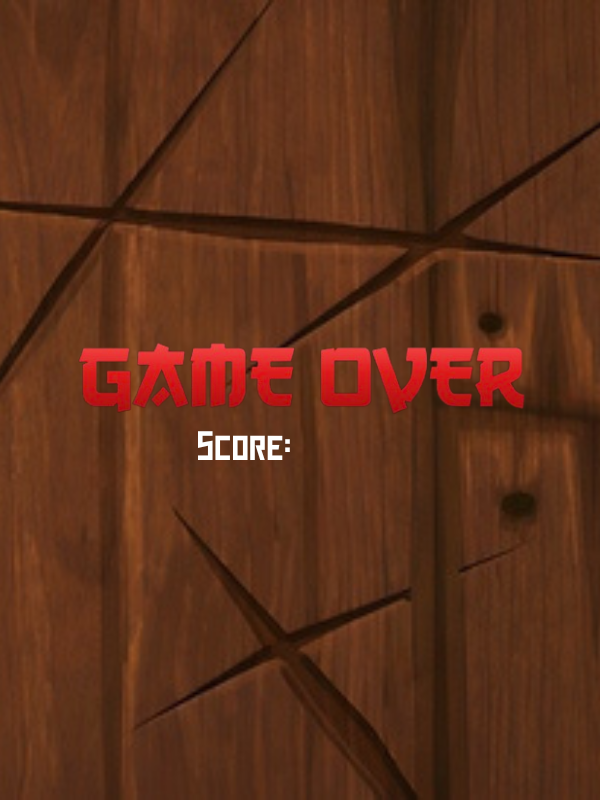
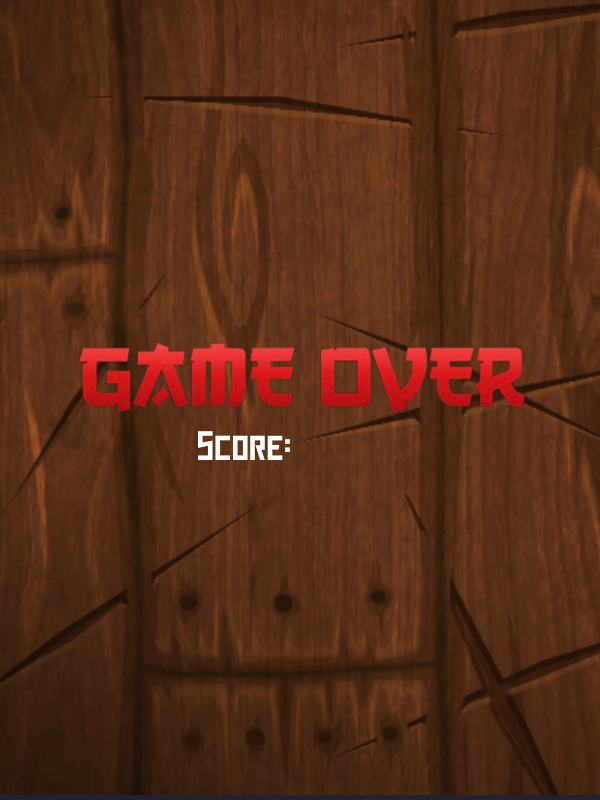
finished version 1

diff --git a/src/FruitNinja.java b/src/FruitNinja.java
@@ -24,9 +24,12 @@ public class FruitNinja implements ActionListener, MouseListener, MouseMotionLis
     public static final int FRUIT_CLICKED = 4;
     public static final int GAME_OVER = 5;
     public static final int MADE_MISTAKE = 6;
+    public static final int BOMB_CLICKED = 7;
+    public static final int SLICED = 8;
     private static int state = WELCOME;
     public static final int DELAY_IN_MILLISEC = 20;
-    private static int FRUIT_TYPES = 13;
+    private static final int SLICED_IMAGE_INDEX = 1;
+    private int count;
     public FruitNinja() {
         this.window = new FruitNinjaView(this);
         gameOver = false;
@@ -35,11 +38,11 @@ public class FruitNinja implements ActionListener, MouseListener, MouseMotionLis
 
         //fruits = new Fruit[FRUIT_TYPES];
         fruits = new ArrayList<Fruit>();
-        fruits.add(new Fruit(new ImageIcon("Resources/fruit1.png").getImage()));
+        int numFirstFruit = (int)((Math.random() * 13) + 1);
+        fruits.add(new Fruit(new ImageIcon("Resources/fruit" + numFirstFruit + ".png").getImage()));
 //        for (int i = 0; i < FRUIT_TYPES; i++) {
 //            fruits[i] = new Fruit(new ImageIcon("Resources/fruit" + (i + 1) + ".png").getImage());
 //        }
-
         Timer clock = new Timer(DELAY_IN_MILLISEC, this);
         clock.start();
 
@@ -58,15 +61,48 @@ public class FruitNinja implements ActionListener, MouseListener, MouseMotionLis
 //        System.out.println("mouse click x position: " + mouseX);
 //        System.out.println("current fruit x position: " + fruits.get(0).getX());
         //if (((mouseX - fruits[0].getX() < 100) && (mouseX - fruits[0].getX() >= 0)) || ((fruits[0].getX() - mouseX < 100) && (fruits[0].getX() - mouseX >= 0)))
-        if (mouseX >= fruits.get(0).getX() && mouseX <= (fruits.get(0).getX() + fruits.get(0).getWidth()) && mouseY >= fruits.get(0).getY() && mouseY <= fruits.get(0).getY() + fruits.get(0).getHeight()) {
-            updateScore();
-            state = FRUIT_CLICKED;
-            window.repaint();
+        //if (fruits.getFirst().equals(bomb))
+        if (mouseX >= fruits.getFirst().getX() && mouseX <= (fruits.getFirst().getX() + fruits.getFirst().getWidth()) && mouseY >= fruits.getFirst().getY() && mouseY <= fruits.getFirst().getY() + fruits.getFirst().getHeight()) {
+            if (!fruits.getFirst().isBomb) {
+                updateScore();
+                //state = FRUIT_CLICKED;
+
+                // update image for sliced effect
+                fruits.getFirst().setFruitImage(new ImageIcon("Resources/fruit1Sliced.png").getImage());
+                fruits.getFirst().setSliced(true);
+
+
+                //addObject();
+                //fruits.remove(fruits.getFirst());
+                window.repaint();
+            }
+            // in this case bomb was clicked
+            else {
+                state = BOMB_CLICKED;
+                numMistakes = 0;
+                window.repaint();
+            }
         }
     }
 
     public void addRandomFruit() {
-        fruits.add(new Fruit(new ImageIcon("Resources/fruit" + (int)(Math.random() * 13) + ".png").getImage()));
+        fruits.add(new Fruit(new ImageIcon("Resources/fruit" + (int)((Math.random() * 13) + 1) + ".png").getImage()));
+    }
+
+    public void addBomb() {
+        fruits.add(new Bomb(new ImageIcon("Resources/bomb.png").getImage()));
+    }
+
+    public void addObject() {
+        int randomInt = (int)(Math.random() * 6);
+        if (randomInt < 5) {
+            addRandomFruit();
+            //fruits.add(new Fruit(new ImageIcon("Resources/fruit" + (int)((Math.random() * 13) + 1) + ".png").getImage()));
+        }
+        else {
+            addBomb();
+            //fruits.add(new Fruit(new ImageIcon("Resources/bomb.png").getImage()));
+        }
     }
 
     public int getState() {
@@ -101,26 +137,50 @@ public class FruitNinja implements ActionListener, MouseListener, MouseMotionLis
         this.numMistakes = numMistakes;
     }
 
+//    public void checkIfFallen(Fruit currentFruit) {
+//        if (currentFruit.getY() > window.WINDOW_HEIGHT) {
+//            numMistakes++;
+//            state = MADE_MISTAKE;
+//        }
+//    }
+
+//    public void drawNextFruit(Fruit currentFruit) {
+//        fruits.remove(currentFruit);
+//        addRandomFruit();
+//        state = GAME;
+//    }
+
     @Override
     public void actionPerformed(ActionEvent e) {
 //        for (Fruit fruit : fruits) {
 //            fruit.move();
 //        }
         //System.out.println("about to call move in actionPerformed");
-        if (state == GAME)
-        {
+        if (state == GAME) {
             for (Fruit fruit : fruits) {
                 fruit.move();
+//                checkIfFallen(fruit);
+//                drawNextFruit(fruit);
                 if (fruit.getY() > window.WINDOW_HEIGHT) {
-                    numMistakes++;
-                    state = MADE_MISTAKE;
+                    System.out.println("Before " + numMistakes);
+                    if (!(fruit.isBomb || fruit.isSliced())) {
+                        numMistakes++;
+                    }
+                    //System.out.println(numMistakes);
+                    //System.out.println(fruit.getY());
+                    addObject();
                     fruits.remove(fruit);
-                    addRandomFruit();
-                }
 
+                    //state = MADE_MISTAKE;
+                    //addRandomFruit();
+                    //addBomb();
+                    state = GAME;
+                }
+                window.repaint();
             }
-            window.repaint();
-            checkGameOver();
+        }
+            //window.repaint();
+        checkGameOver();
             //fruits.get(0).move();
 //            if (fruits.get(0).getY() > 800) {
 //                numMistakes++;
@@ -128,9 +188,14 @@ public class FruitNinja implements ActionListener, MouseListener, MouseMotionLis
 //                checkGameOver();
 //            }
 //            window.repaint();
-        }
         //fruits.get(0).move();
-
+//        if (state == BOMB_CLICKED)
+//        {
+//            window.repaint();
+//            setGameOver(true);
+//            state = GAME_OVER;
+//            window.repaint();
+//        }
     }
 
     public void setGameOver(boolean gameOver) {
@@ -171,15 +236,15 @@ public class FruitNinja implements ActionListener, MouseListener, MouseMotionLis
             setState(GAME);
             //repaint();
         }
-        else if (state == GAME) {
-            //if(fruitImages.get(0).getX()) {
-            //setState(FRUIT_CLICKED);
-            int xClicked= e.getX();
-            int yClicked= e.getY();
-            System.out.println(xClicked);
-            fruitClicked(xClicked, yClicked);
-            //repaint();
-        }
+//        else if (state == GAME) {
+//            //if(fruitImages.get(0).getX()) {
+//            //setState(FRUIT_CLICKED);
+//            int xClicked= e.getX();
+//            int yClicked= e.getY();
+//            System.out.println(xClicked);
+//            fruitClicked(xClicked, yClicked);
+//            //repaint();
+//        }
         window.repaint();
     }
 
@@ -204,8 +269,16 @@ public class FruitNinja implements ActionListener, MouseListener, MouseMotionLis
     }
 
     @Override
-    public void mouseDragged(MouseEvent mouseEvent) {
-
+    public void mouseDragged(MouseEvent e) {
+        if (state == GAME) {
+            //if(fruitImages.get(0).getX()) {
+            //setState(FRUIT_CLICKED);
+            int xClicked = e.getX();
+            int yClicked = e.getY();
+            System.out.println(xClicked);
+            fruitClicked(xClicked, yClicked);
+            //repaint();
+        }
     }
 
     @Override
@@ -216,6 +289,7 @@ public class FruitNinja implements ActionListener, MouseListener, MouseMotionLis
         FruitNinja game = new FruitNinja();
        // game.playGame();
     }
+}
 
 
     // Run repaint() to draw and run the front-end
@@ -223,7 +297,6 @@ public class FruitNinja implements ActionListener, MouseListener, MouseMotionLis
     {
         window.repaint();
     }*/
-}
 
 
 //}

diff --git a/src/FruitNinjaView.java b/src/FruitNinjaView.java
@@ -18,6 +18,7 @@ public class FruitNinjaView extends JFrame {
     private Image playBG;
     private Image x;
     private Image redX;
+    private Image bombBG;
     private static final int DISTANCE_BETWEEN_X = 60;
     private static final int X_START_X_VALUE = 400;
     private static final int X_Y_Value = 50;
@@ -28,14 +29,15 @@ public class FruitNinjaView extends JFrame {
         //bombImage = new ImageIcon("").getImage();
 
         // Initialize background images
-        startBG = new ImageIcon("Resources/startBG.jpg").getImage();
-        instructions = new ImageIcon("Resources/instructions.jpg").getImage();
+        startBG = new ImageIcon("Resources/startBG.png").getImage();
+        instructions = new ImageIcon("Resources/instructionBG.png").getImage();
         gameOverBG = new ImageIcon("Resources/gameOverBG.png").getImage();
-        readyBG = new ImageIcon("Resources/ready.png").getImage();
-        goBG = new ImageIcon("Resources/go.jpg").getImage();
+        readyBG = new ImageIcon("Resources/readyBG.png").getImage();
+        goBG = new ImageIcon("Resources/goBG.png").getImage();
         playBG = new ImageIcon("Resources/playBG.png").getImage();
         x = new ImageIcon("Resources/X.png").getImage();
         redX = new ImageIcon("Resources/redX.png").getImage();
+        bombBG = new ImageIcon("Resources/bombBG.jpg").getImage();
 
         // Set up the window
         this.setDefaultCloseOperation(EXIT_ON_CLOSE);
@@ -66,9 +68,10 @@ public class FruitNinjaView extends JFrame {
         if (game.getState() == game.GAME_OVER) {
             drawGameOverScreen(g);
         }
-        if (game.getState() == game.MADE_MISTAKE) {
-            showMistake(g);
+        if (game.getState() == game.BOMB_CLICKED) {
+            drawBombScreen(g);
         }
+        showMistake(g);
     }
 
     public void drawWelcomeScreen(Graphics g) {
@@ -102,7 +105,7 @@ public class FruitNinjaView extends JFrame {
     }
 
     public void drawFruits(Graphics g) {
-        game.getFruits().get(0).draw(g);
+        game.getFruits().getFirst().draw(g);
 //        for (Fruit fruit : game.getFruits()) {
 //            fruit.move();
 //            Fruit currFruit = fruit;
@@ -128,15 +131,20 @@ public class FruitNinjaView extends JFrame {
     }
 
     public void showMistake(Graphics g) {
-        if (game.getNumMistakes() == 1) {
+        if (game.getNumMistakes() >= 1) {
             g.drawImage(redX, X_START_X_VALUE - 2, X_Y_Value + 1, 60, 65,this);
         }
-        if (game.getNumMistakes() == 2) {
+        if (game.getNumMistakes() >= 2) {
             g.drawImage(redX, X_START_X_VALUE + DISTANCE_BETWEEN_X, X_Y_Value, 60, 65,this);
         }
-        if (game.getNumMistakes() == 3) {
+        if (game.getNumMistakes() >= 3) {
             g.drawImage(redX, X_START_X_VALUE + (DISTANCE_BETWEEN_X * 2), X_Y_Value, 60, 65,this);
             //drawGameOverScreen(g);
         }
+    }
+
+    public void drawBombScreen(Graphics g) {
+        g.drawImage(bombBG, 0, 0, WINDOW_WIDTH, WINDOW_HEIGHT, this);
+        //drawGameScreen(g);
     }
 }

diff --git a/src/Fruit.java b/src/Fruit.java
@@ -12,8 +12,8 @@ public class Fruit {
     private int height;
     private int flyHeight;
     //private static final int startingY = -15;
-    public static final int FRUIT_WIDTH = 175;
-    public static final int FRUIT_HEIGHT = 175;
+    public static final int FRUIT_WIDTH = 200;
+    public static final int FRUIT_HEIGHT = 190;
     private Image fruitImage;
     private boolean isSliced;
     private boolean movingUp;
@@ -21,6 +21,9 @@ public class Fruit {
     private FruitNinjaView window;
     private static final int STARTING_Y = 800;
     private static final int DX_DY = 8;
+
+    protected boolean isBomb;
+
 //    public Fruit(Image fruitImage, int width, int height, int x, int y, int dx, int dy, int flyHeight) {
 ////        x = (int)(Math.random() * 600);
 ////        flyHeight = (int)(Math.random() * 800);
@@ -56,6 +59,7 @@ public class Fruit {
         movingUp = true;
         if (x < 300) movingRight = true;
         else movingRight = false;
+        isBomb = false;
         //this(fruitType, fruitImage, (int)(Math.random() * 500), STARTING_Y, 6, 6, (int)((Math.random() * 200) + 100), true);
     }
 
@@ -81,6 +85,10 @@ public class Fruit {
         return height;
     }
 
+    private void setBombStatus(boolean isBomb)
+    {
+        this.isBomb = isBomb;
+    }
     public FruitNinjaView getWindow() {
         return window;
     }
@@ -97,8 +105,10 @@ public class Fruit {
         this.fruitImage = fruitImage;
     }
 
-    public void setSliced(boolean sliced) {
+    public void setSliced(boolean sliced)
+    {
         isSliced = sliced;
+        movingUp=false;
     }
 
     public void setWindow(FruitNinjaView window) {

diff --git a/src/Bomb.java b/src/Bomb.java
@@ -6,6 +6,7 @@ public class Bomb extends Fruit {
 
     public Bomb(Image fruitImage) {
         super(fruitImage);
+        isBomb = true;
     }
 
     //    public Bomb(String fruitType, Image fruitImage) {
